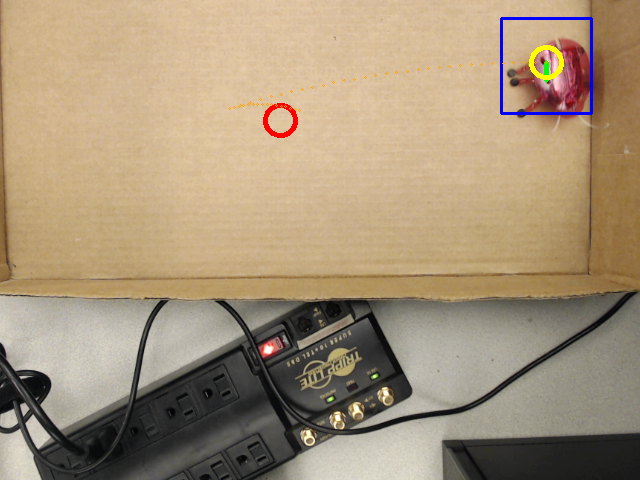
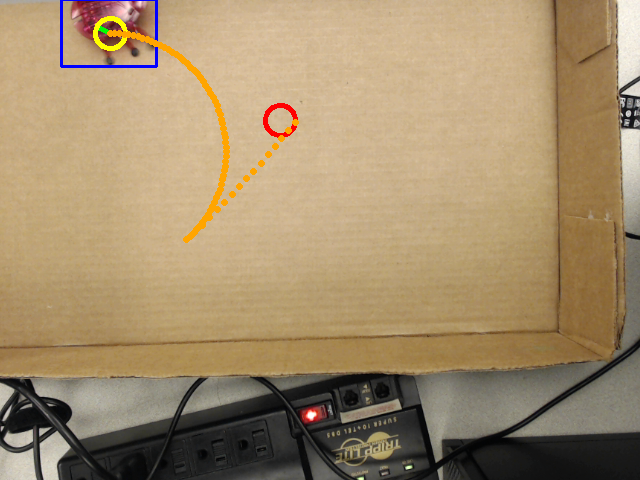
better looking display. need to integrate feedback and control

diff --git a/src/planners/sys_id.py b/src/planners/sys_id.py
@@ -40,7 +40,7 @@ def two_rects_to_state(b_rect_new, b_rect_old):
 def show_cv2_plan(mat, plan, planner):
     for t, p, c in plan:
         center = tuple(planner.config_space.config2image_coords(p[:2].astype(int)))
-        mat = cv2.circle(mat, center=center, radius=1, color=(0, 165, 255), thickness=1)
+        mat = cv2.circle(mat, center=center, radius=2, color=(0, 165, 255), thickness=2)
     return mat 
 
 def online_planning(planner, goal):
@@ -88,7 +88,7 @@ def online_planning(planner, goal):
         #vw.write(mat)
         cv2.imshow("Camera Tracking", mat)
 
-        cv2.waitKey(10)
+        cv2.waitKey(50)
         
         if SYSTEM_ID_MODE:
             xys.append(xy)

diff --git a/src/planners/rrt_planner.py b/src/planners/rrt_planner.py
@@ -88,6 +88,7 @@ class RRTPlanner(object):
         ----------
         plan : :obj: Plan. See configuration_space.Plan
         """
+        print("======= Executing Motion Plan =======")
         if len(plan) == 0:
             return
         rate = 0.1 # Magic number here
@@ -109,6 +110,7 @@ class RRTPlanner(object):
             time.sleep(rate)
 
     def clap(self):
+        print("I'M CLAPPING")
         pydub.playback.play(self.audio_seg)
 
     def plot_execution(self):
